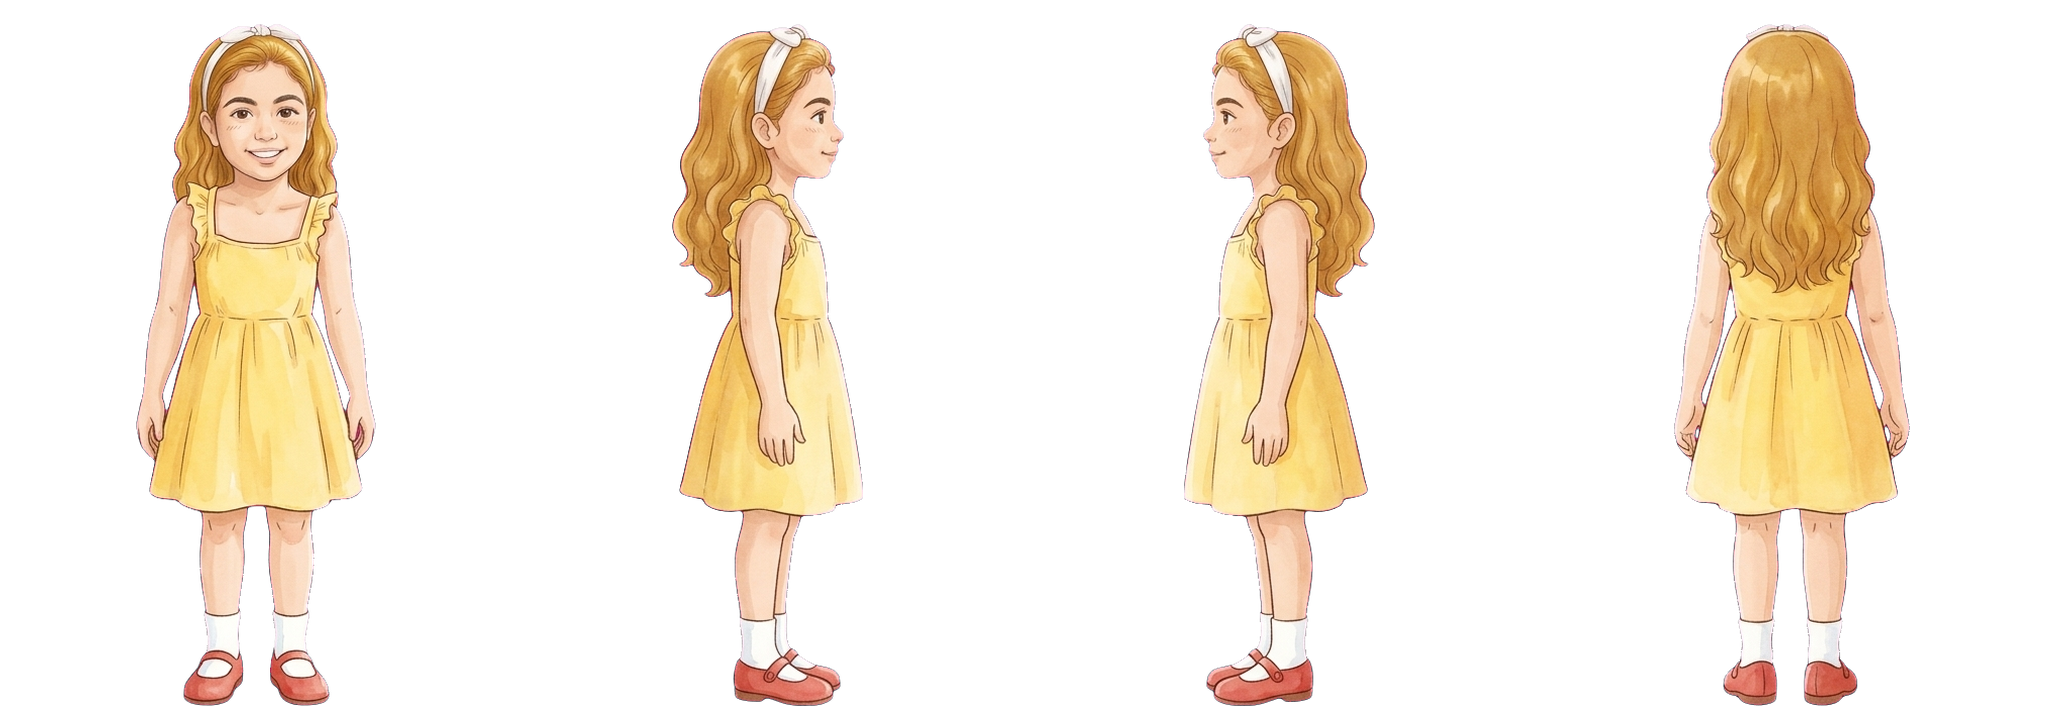
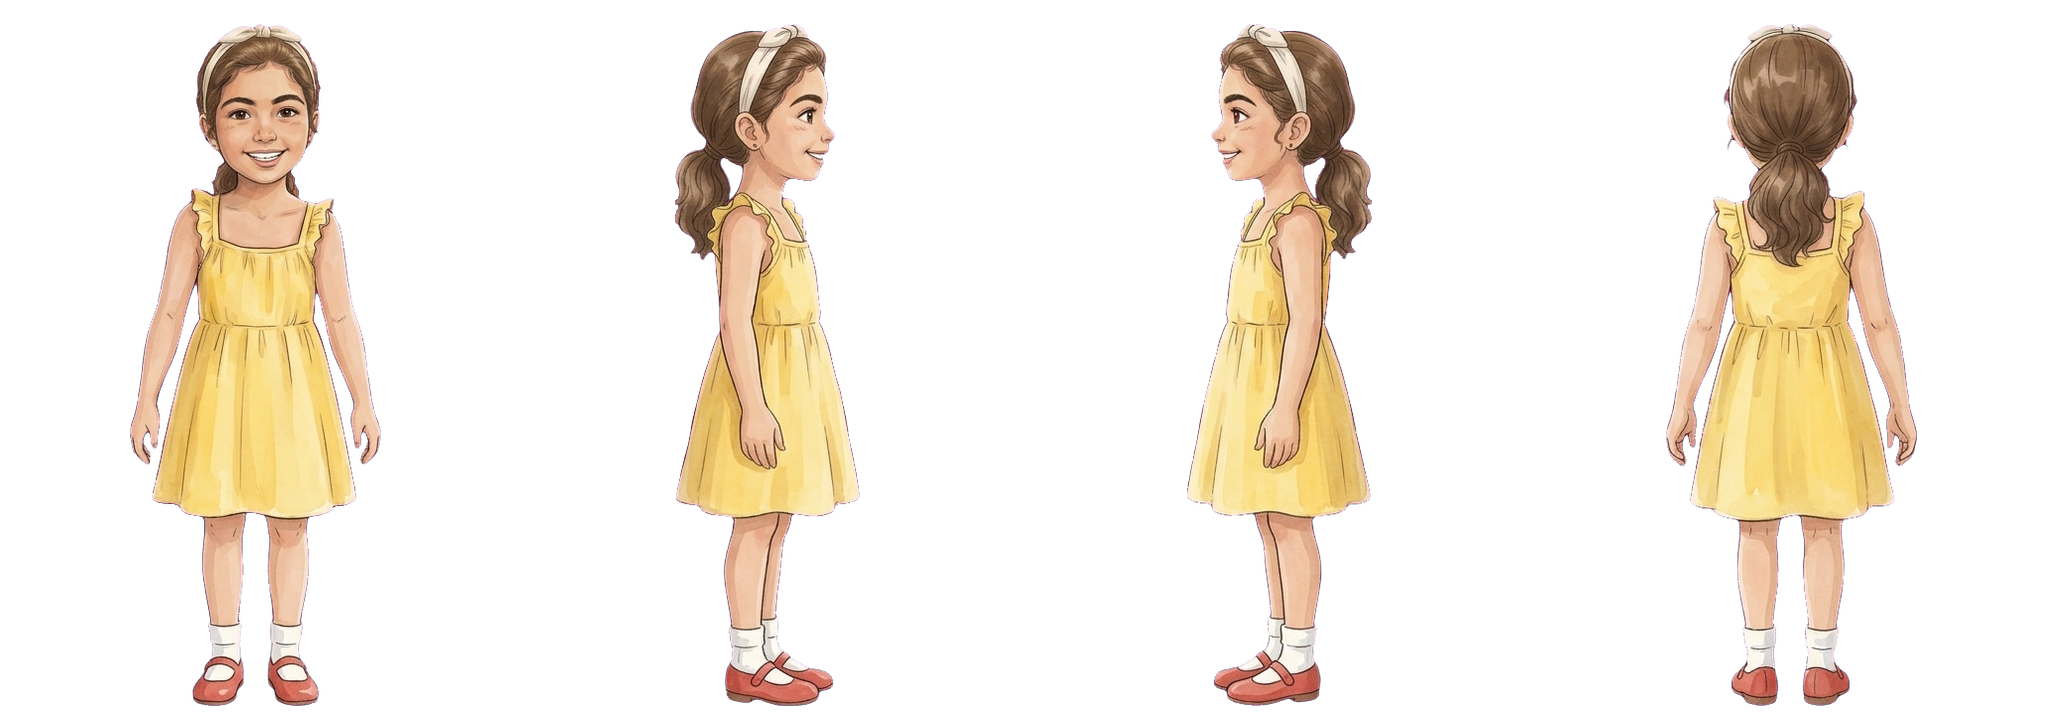
Complete all 10 Animated HD-2D Studio Ghibli family characters including Bibo, Mostafa, and updated Drive Laila & Salma

diff --git a/showcase_hd2d.html b/showcase_hd2d.html
@@ -248,16 +248,18 @@
         return sp;
       }
 
-      // Full Family Lineup (Real-World Calibrated Heights!)
+      // Full 10-Character Family Lineup (Real-World Calibrated Heights!)
       const FAMILY = [
-        { key: 'laila',        label: 'Laila (1.24m)',        x: -0.65, z:  0.85, rotY: 0.08 },
-        { key: 'salma',        label: 'Salma (1.04m)',        x:  0.55, z:  0.90, rotY: -0.08 },
-        { key: 'mom',          label: 'Mom (1.58m)',          x: -1.85, z:  0.15, rotY: 0.18 },
-        { key: 'dad',          label: 'Dad (1.72m)',          x:  1.85, z:  0.15, rotY: -0.18 },
-        { key: 'gedo_mahmoud', label: 'Gedo Mahmoud (1.68m)', x: -3.05, z: -0.55, rotY: 0.25 },
-        { key: 'nana_omaima',  label: 'Nana Omaima (1.54m)',  x: -1.10, z: -0.95, rotY: 0.06 },
-        { key: 'nouzi',        label: 'Nouzi (1.22m)',        x:  1.10, z: -0.90, rotY: -0.06 },
-        { key: 'mai',          label: 'Mai (1.56m)',          x:  3.05, z: -0.55, rotY: -0.25 }
+        { key: 'laila',        label: 'Laila (1.24m)',        x: -0.65, z:  1.25, rotY:  0.08 },
+        { key: 'salma',        label: 'Salma (1.04m)',        x:  0.55, z:  1.25, rotY: -0.08 },
+        { key: 'mom',          label: 'Mom (1.58m)',          x: -2.28, z:  0.35, rotY:  0.16 },
+        { key: 'dad',          label: 'Dad (1.72m)',          x:  2.38, z:  0.35, rotY: -0.16 },
+        { key: 'gedo_mahmoud', label: 'Gedo Mahmoud (1.68m)', x: -3.55, z: -0.35, rotY:  0.24 },
+        { key: 'nana_omaima',  label: 'Nana Omaima (1.54m)',  x: -1.55, z: -1.05, rotY:  0.08 },
+        { key: 'bibo',         label: 'Bibo (0.99m)',         x: -0.35, z: -0.88, rotY:  0.02 },
+        { key: 'nouzi',        label: 'Nouzi (1.22m)',        x:  0.68, z: -0.98, rotY: -0.04 },
+        { key: 'mai',          label: 'Mai (1.56m)',          x:  1.68, z: -1.05, rotY: -0.10 },
+        { key: 'mostafa',      label: 'Mostafa (1.72m)',      x:  3.55, z: -0.35, rotY: -0.24 }
       ];
 
       const actors = {};

diff --git a/engine/core/hd2d_characters.js b/engine/core/hd2d_characters.js
@@ -20,10 +20,10 @@ window.LailaSalma = window.LailaSalma || {};
     dad:          { strip: 'assets/ghibli_showcase/hd2d/dad_strip.png',          height: 1.72, ready: true },
     gedo_mahmoud: { strip: 'assets/ghibli_showcase/hd2d/gedo_mahmoud_strip.png', height: 1.68, ready: true },
     nana_omaima:  { strip: 'assets/ghibli_showcase/hd2d/nana_omaima_strip.png',  height: 1.54, ready: true },
-    bibo:         { strip: 'assets/ghibli_showcase/hd2d/bibo_strip.png',         height: 0.99, ready: false },
+    bibo:         { strip: 'assets/ghibli_showcase/hd2d/bibo_strip.png',         height: 0.99, ready: true },
     nouzi:        { strip: 'assets/ghibli_showcase/hd2d/nouzi_strip.png',        height: 1.22, ready: true },
     mai:          { strip: 'assets/ghibli_showcase/hd2d/mai_strip.png',          height: 1.56, ready: true },
-    mostafa:      { strip: 'assets/ghibli_showcase/hd2d/mostafa_strip.png',      height: 1.72, ready: false }
+    mostafa:      { strip: 'assets/ghibli_showcase/hd2d/mostafa_strip.png',      height: 1.72, ready: true }
   };
 
   const textureLoader = new THREE.TextureLoader();

diff --git a/engine/core/characters.js b/engine/core/characters.js
@@ -2429,6 +2429,13 @@ window.LailaSalma = window.LailaSalma || {};
       topHex: 0xb83c34, bottomHex: 0xa2302a, shoeHex: 0x6b453a,
       sleeves: 'sleeveless', bottomType: 'skirt', pleatedTop: true, torsoW: 0.94,
       face: { eyeColor: '#3b2416', eyeHighlight: '#8a5632', eyeScale: 0.88, lashStyle: 'graceful', mouthStyle: 'open_smile' }
+    },
+    mostafa: {
+      scale: 0.98, headR: 0.196, isChild: false, skinHex: 0xdfb28b,
+      hairPalette: ['#3c3430', '#5a504a', '#7c7068'], browColor: '#3c3028',
+      topHex: 0xf4e4a2, bottomHex: 0x3b485b, shoeHex: 0x7b4c2a,
+      sleeves: 'long', bottomType: 'pants', collar: true, torsoW: 1.04,
+      face: { eyeColor: '#3b2416', eyeHighlight: '#7a5230', eyeScale: 0.84, lashStyle: 'clean', mouthStyle: 'open_smile' }
     }
   };
   LS.PORTRAIT_PROFILES = PORTRAIT_PROFILES;

diff --git a/worlds/home/world_home_destinations.js b/worlds/home/world_home_destinations.js
@@ -1726,25 +1726,7 @@ window.LailaSalma = window.LailaSalma || {};
         pos: new THREE.Vector3(4.48, 0.02, -3.8),
         baseRot: Math.PI / 2,
         seated: true,
-        char: {
-          scale: 1.0,
-          athletic: true,
-          skinColor: 0x5c3822,
-          hairColor: 0x161210,
-          bald: true,
-          doctorCoat: true,
-          stethoscope: true,
-          topColor: 0xffffff,
-          bottomColor: 0x1e293b,
-          pants: true,
-          faceOpts: {
-            charismaticMale: true,
-            goatee: true,
-            smileTeeth: true,
-            eyeColor: '#1e120c',
-            eyeHighlight: '#5a3a24'
-          }
-        }
+        char: { scale: 0.98, portraitStyle: 'mostafa' }
       }
     ]);
 
